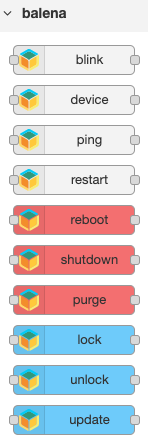
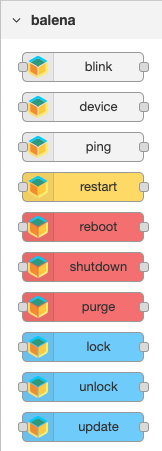
make container restart a warning-level node
Change-type: patch

diff --git a/restart/restart.html b/restart/restart.html
@@ -1,7 +1,7 @@
 <script type="text/javascript">
     RED.nodes.registerType('restart',{
         category: 'balena',
-        color: '#F3F3F3',
+        color: '#FAD754',
         defaults: {
             name: {value:"restart container"}
         },
